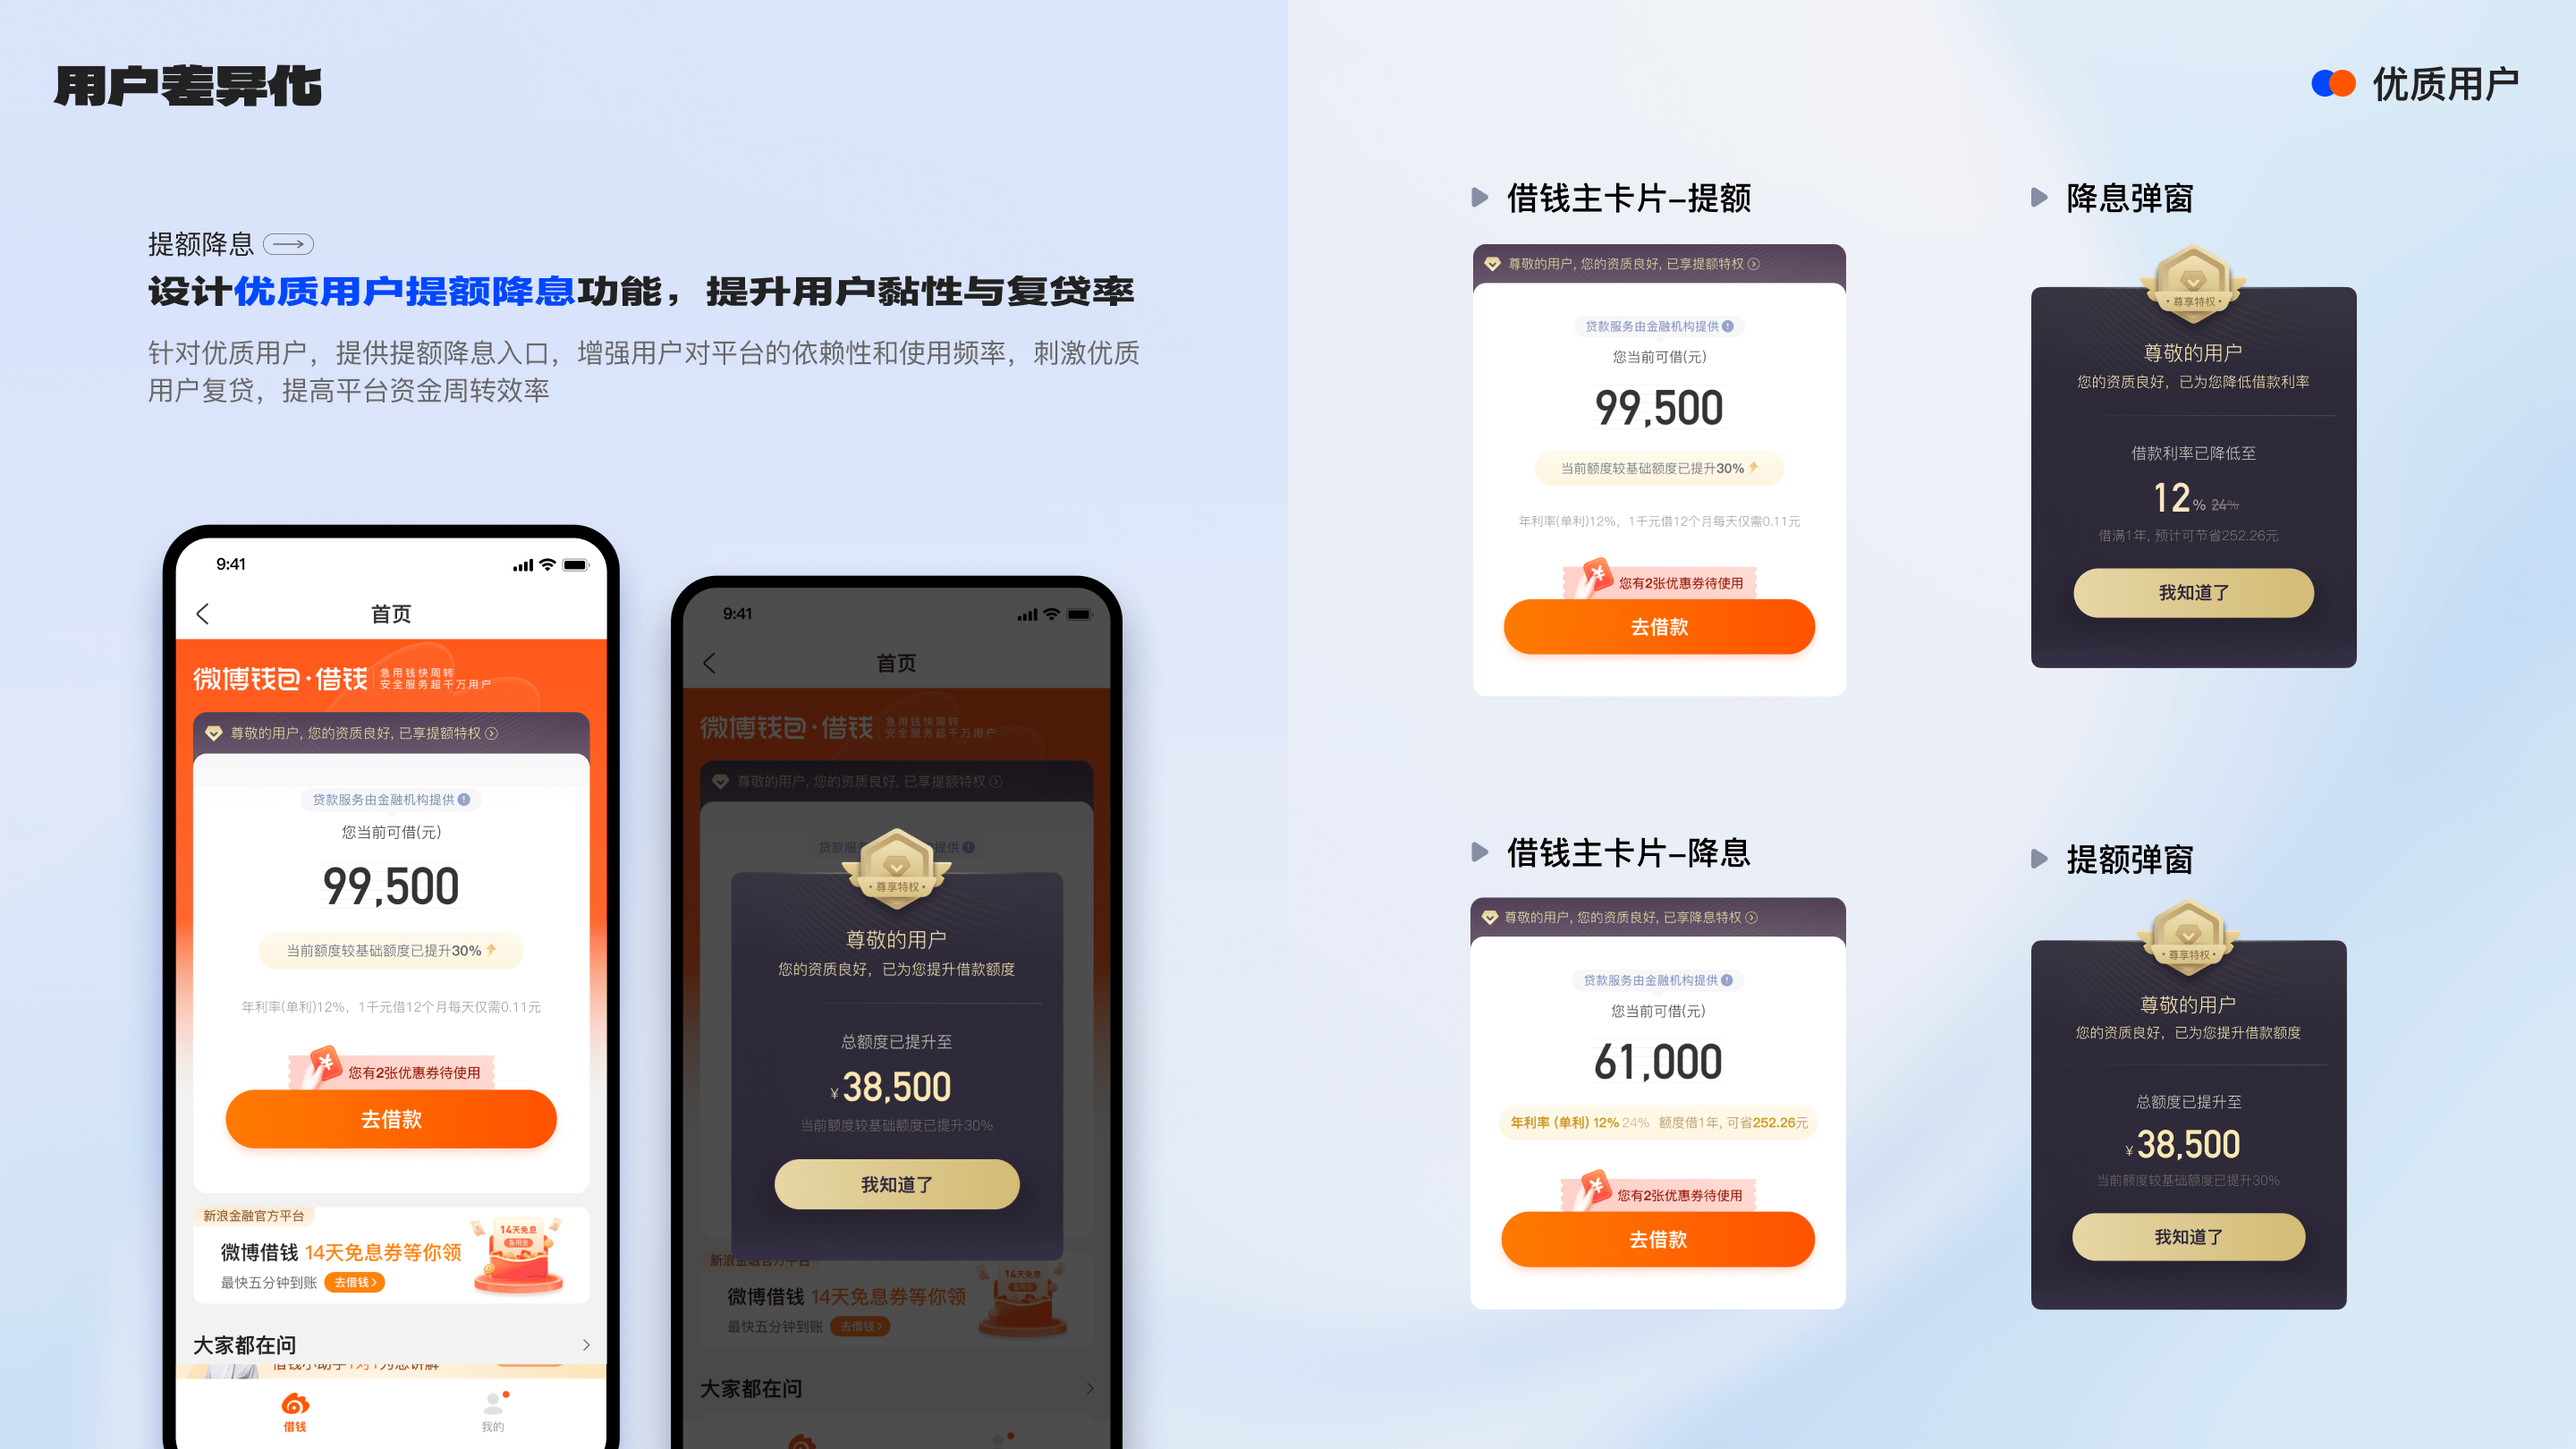
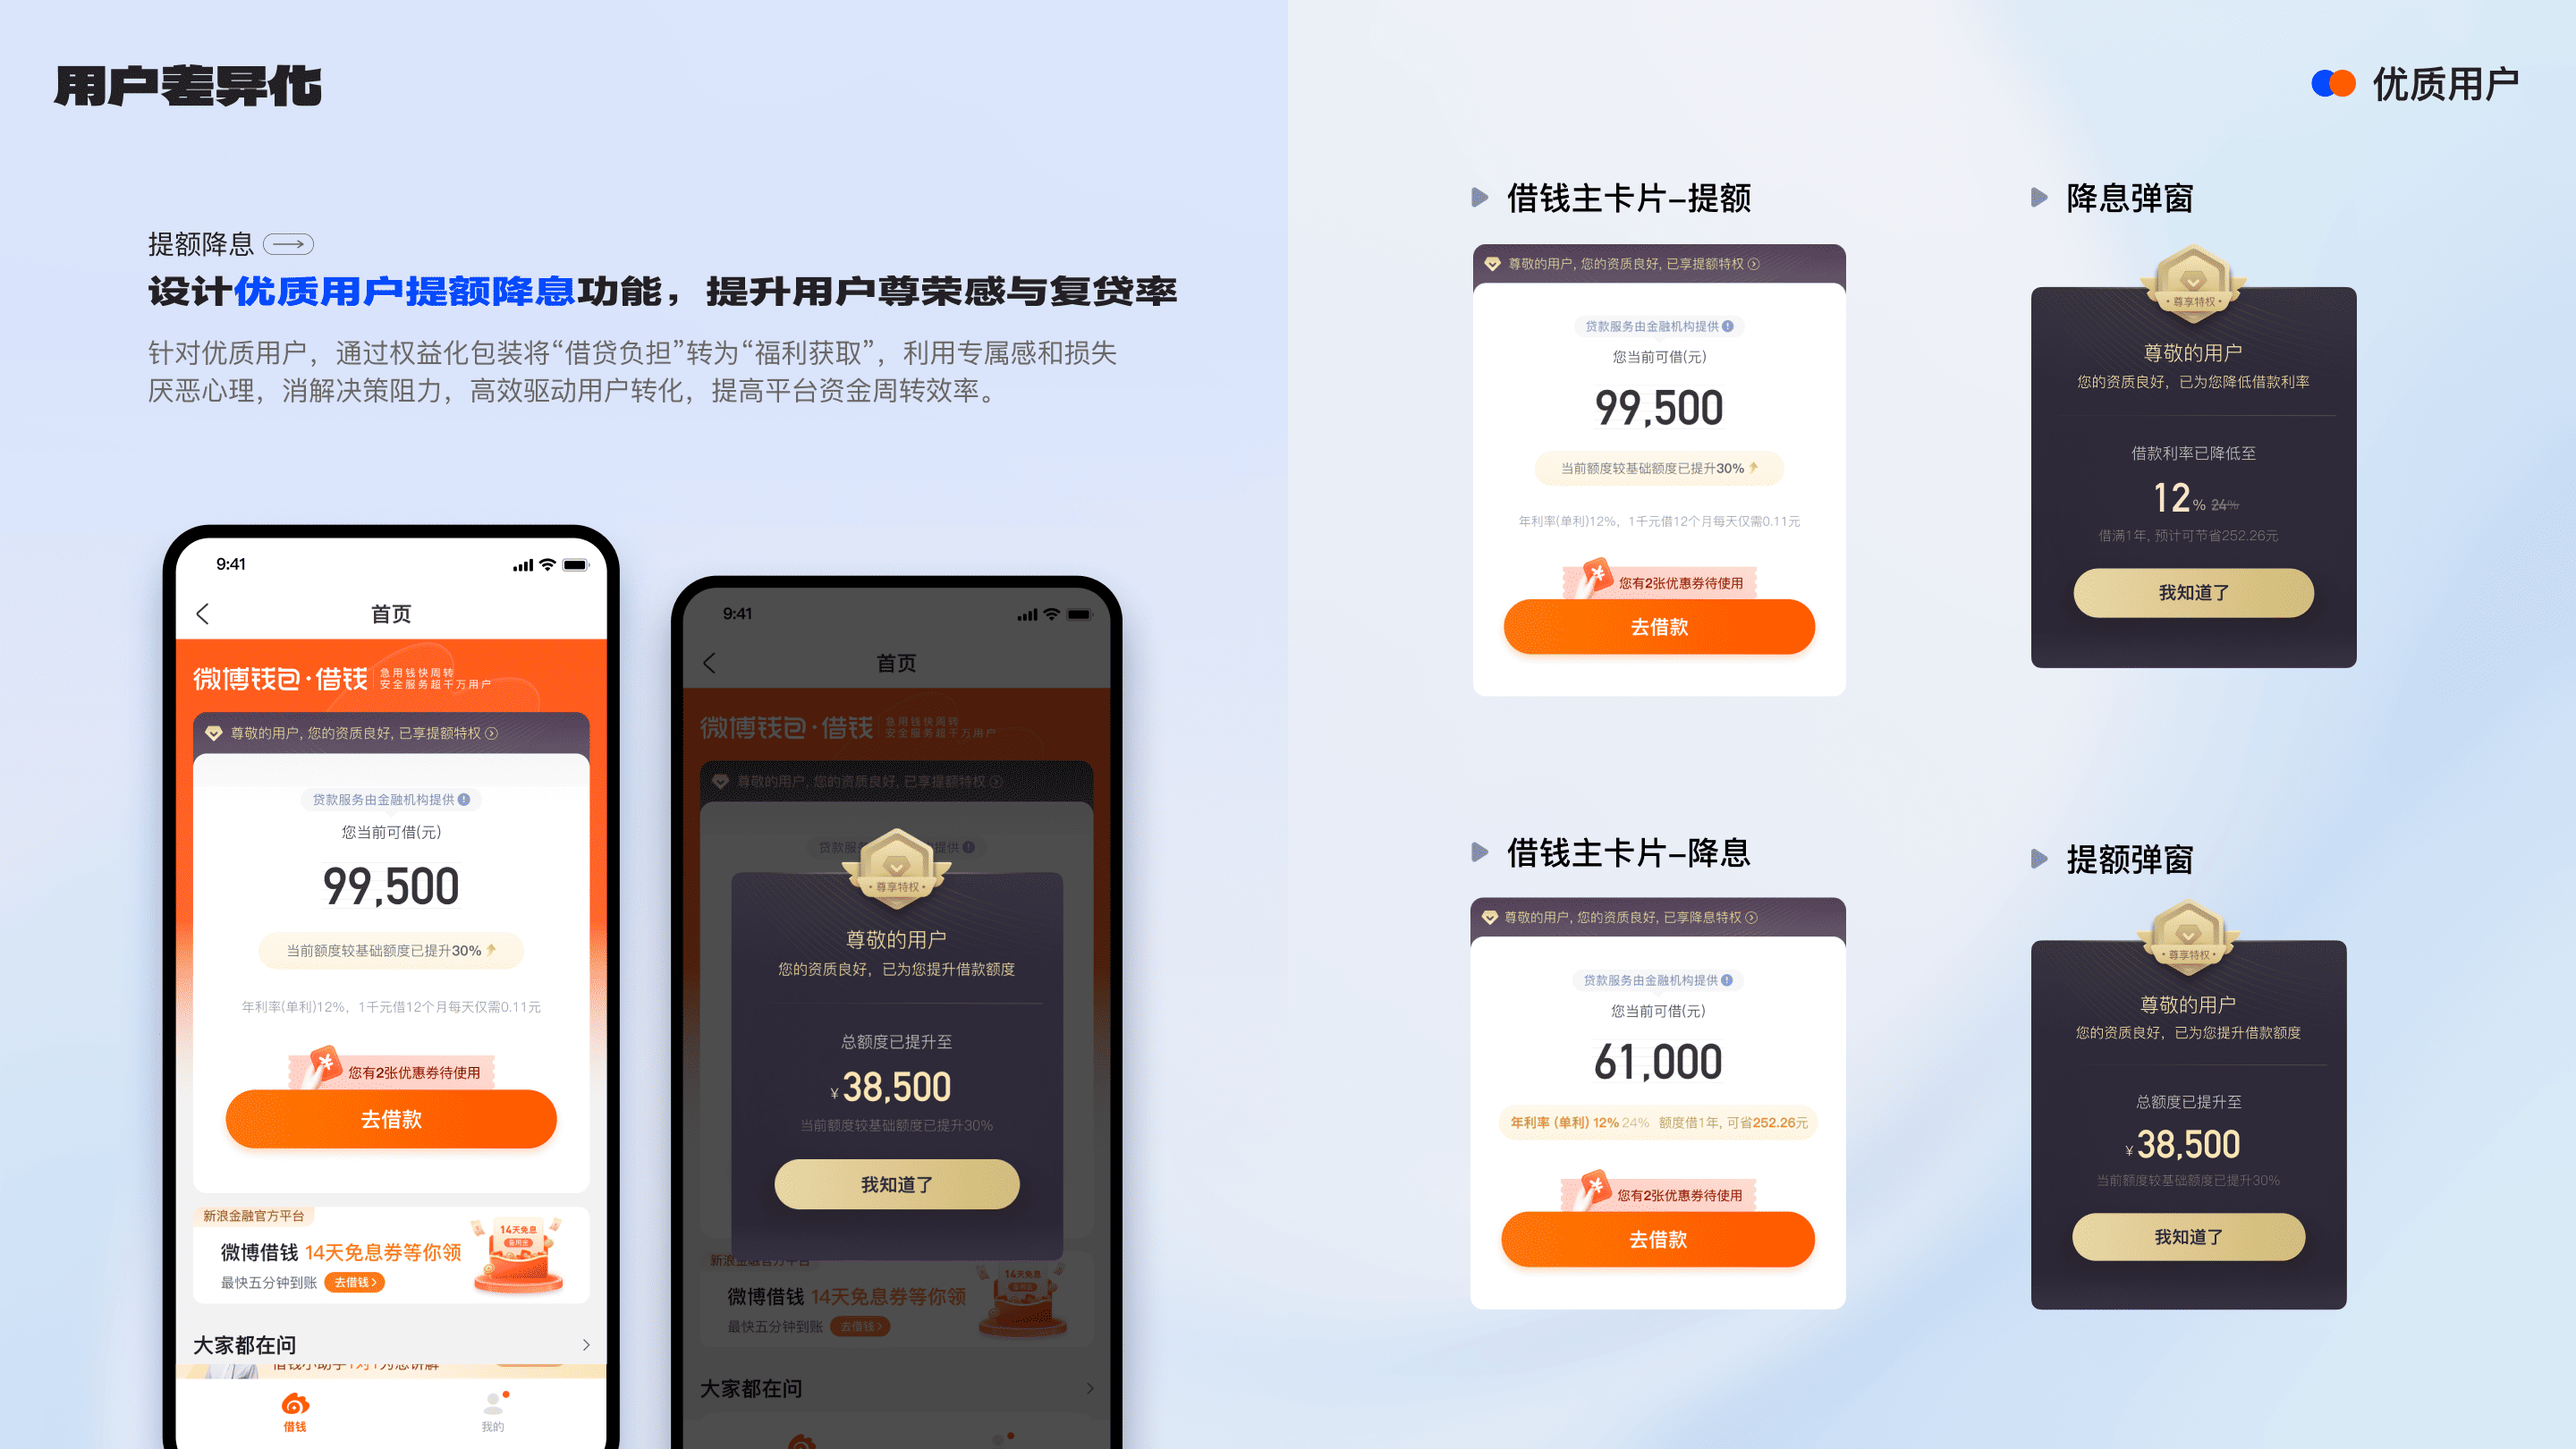
update portfolio content

diff --git a/index.html b/index.html
@@ -191,7 +191,7 @@
     const projectImageData = {
       'homepage-images': {
         folder: 'Homepage_Redesign',
-        images: ['page_004.png','page_005.png','page_006.png','page_007.png','page_008.png','page_009.png','page_010.png','page_011.png','page_012.png','page_013.png','page_014.png','page_015.png','page_016.png','page_017.png','page_018.png','page_019.png','page_020.png']
+        images: ['page_004.png','page_005.png','page_006.png','page_007.png','page_008.png','page_021.png','page_009.png','page_010.png','page_011.png','page_012.png','page_013.png','page_014.png','page_015.png','page_016.png','page_017.png','page_018.png','page_019.png','page_020.png']
       },
       'vipcard-images': {
         folder: 'VIPcard',
